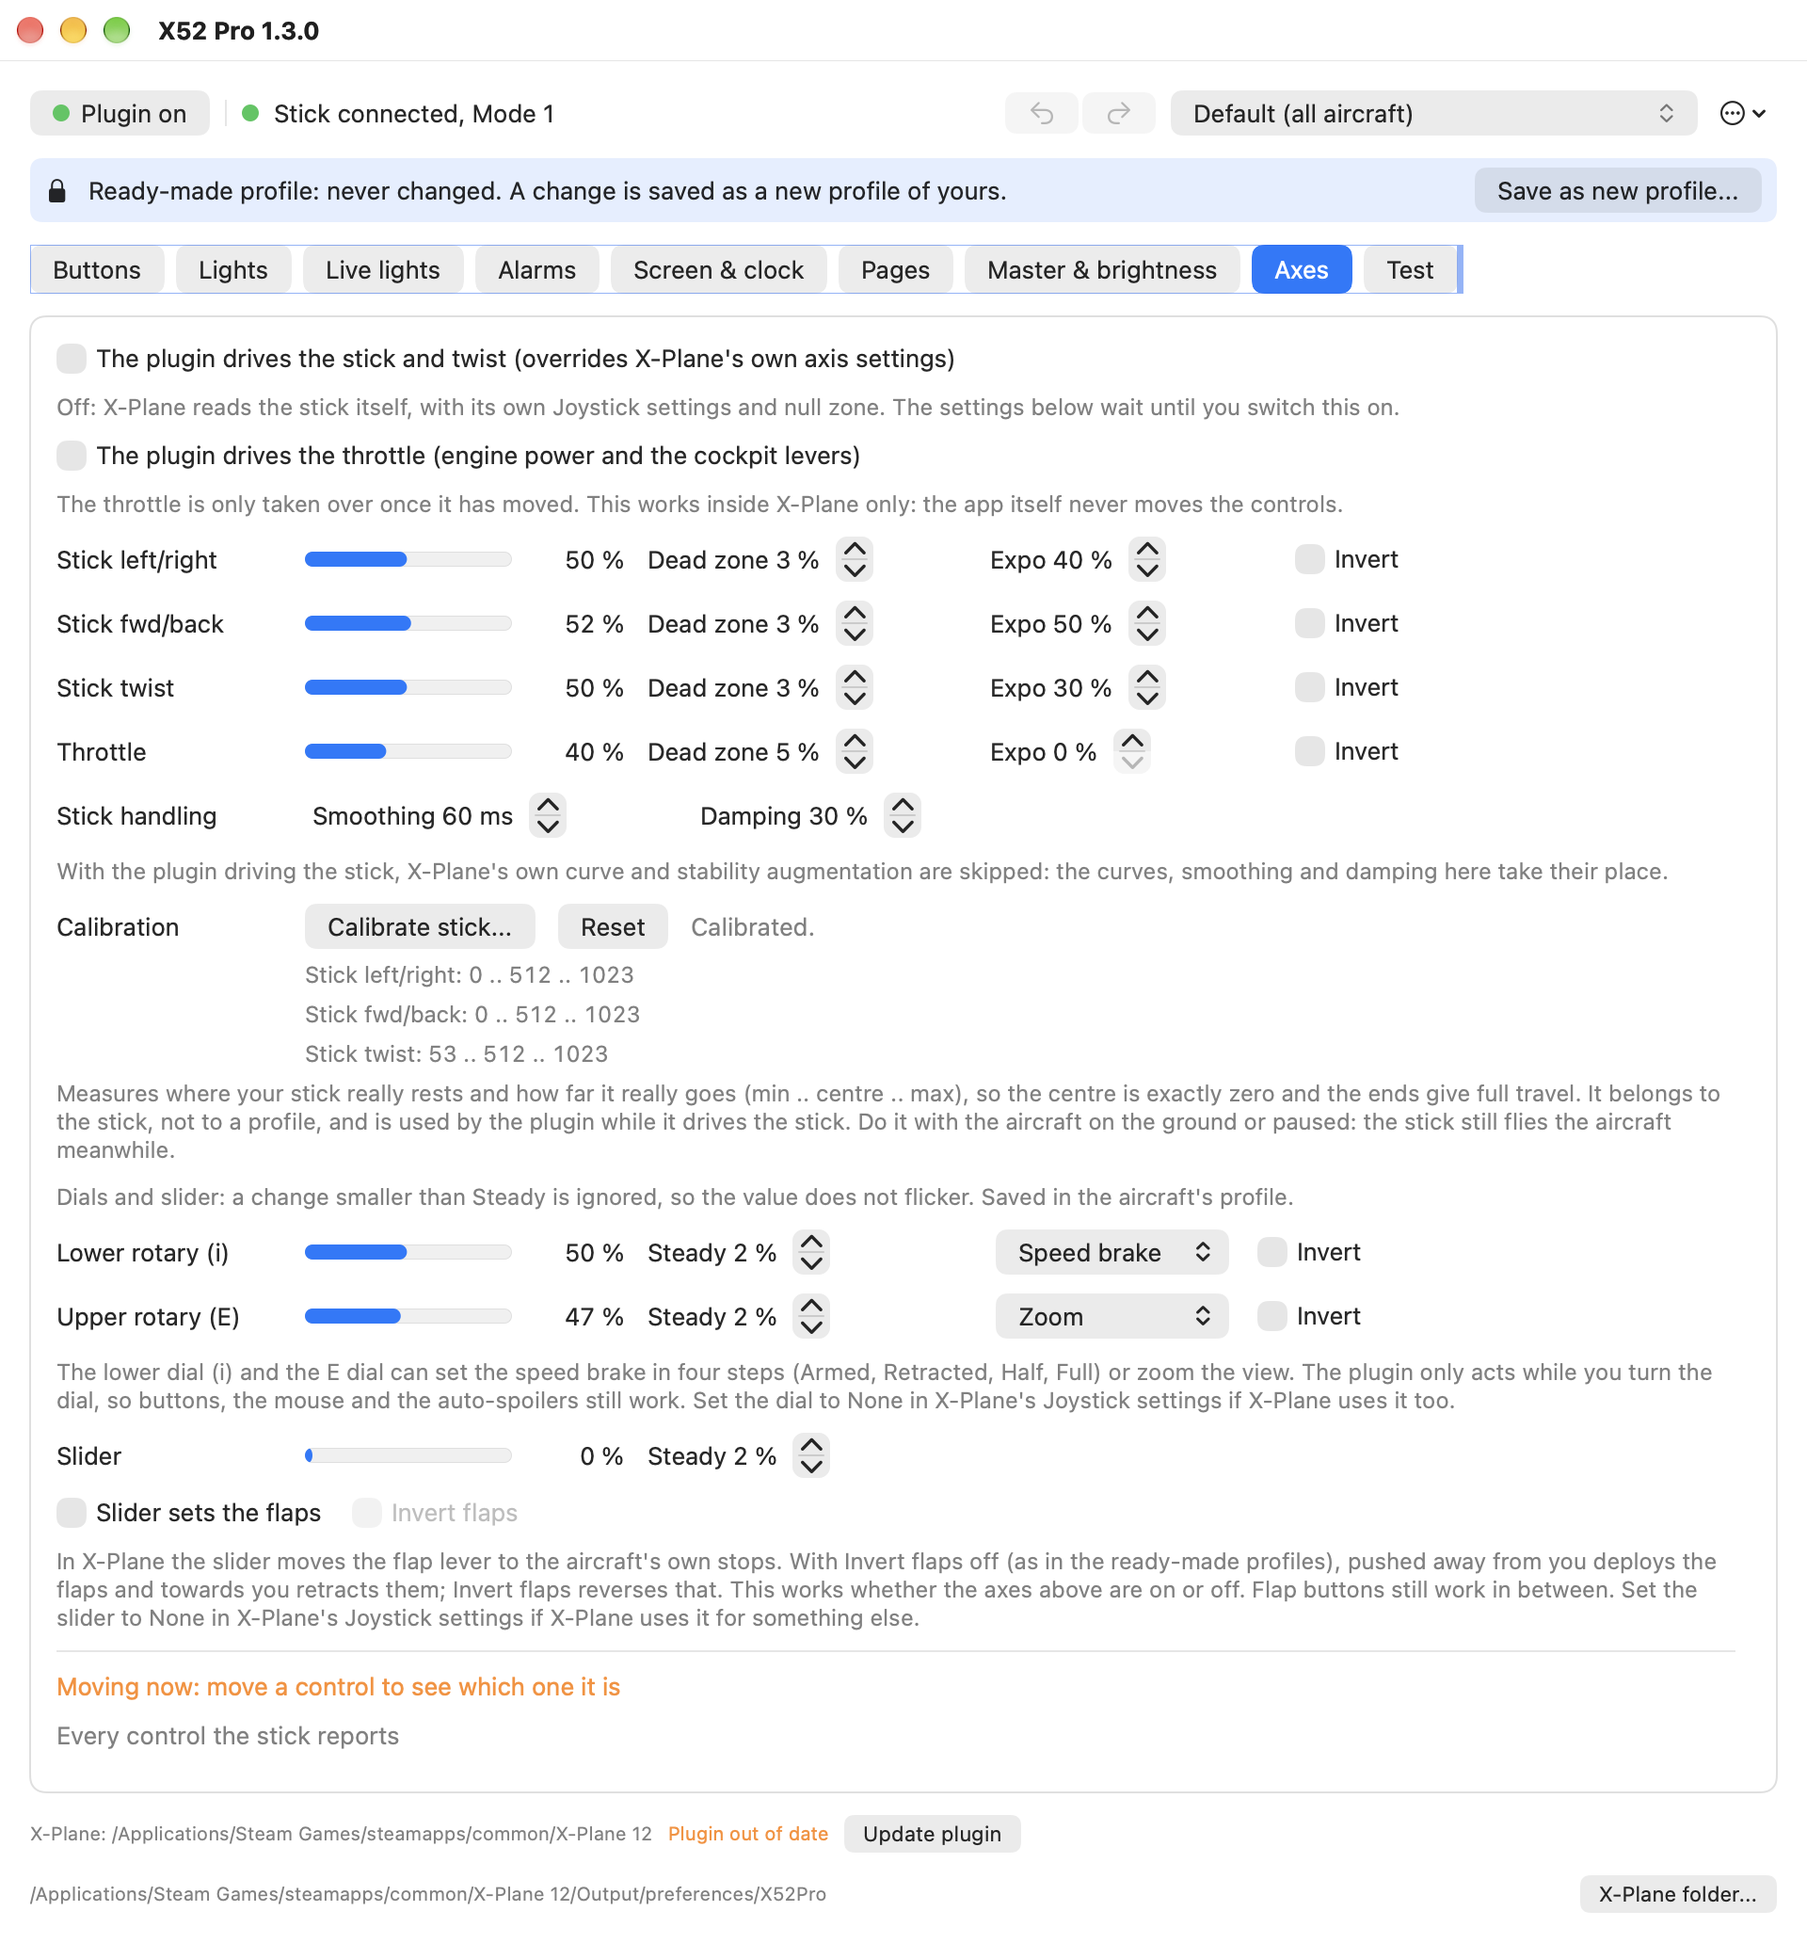
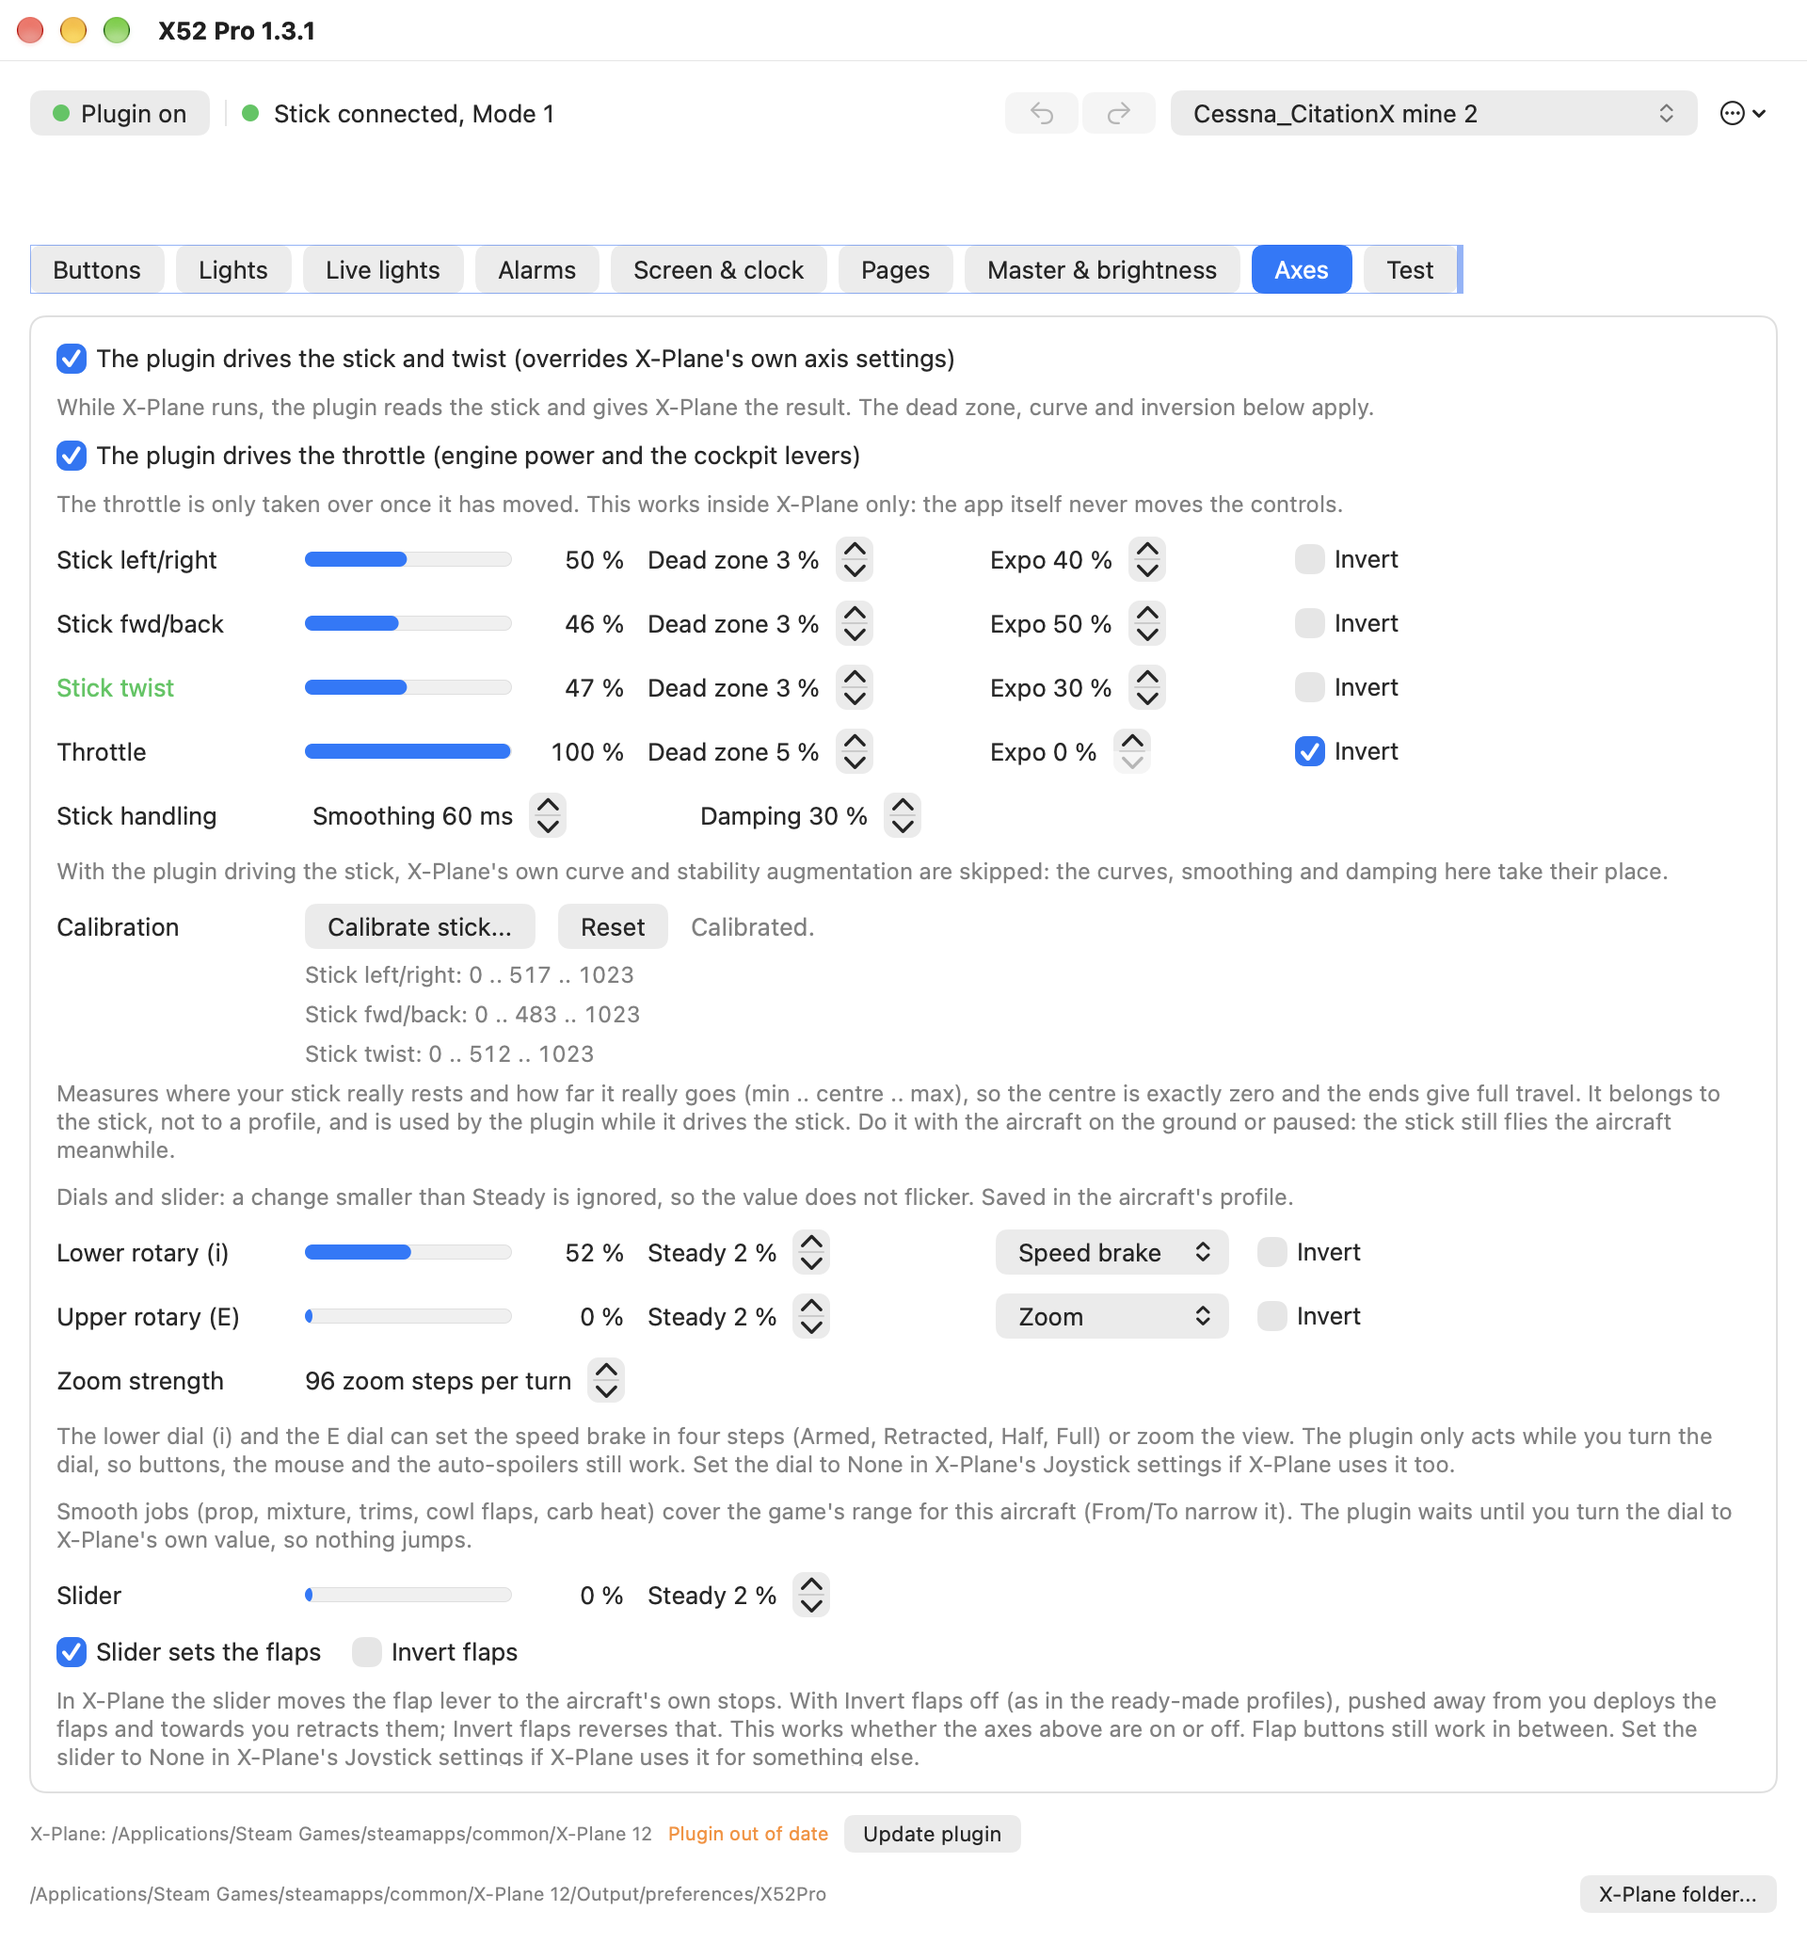
Docs and VERSION 1.3.1 for the dial lever jobs and the panel brightness (#78)

diff --git a/docs/manual/build_manual.js b/docs/manual/build_manual.js
@@ -312,6 +312,7 @@ add(bullet("**Stick handling**: with the plugin driving the stick, X-Plane's own
 add(bullet("**Calibration**: **Calibrate stick...** opens a window that guides you step by step: push the stick to its four edges until each dot turns green, turn the twist both ways (or skip it), let go so the resting point becomes the centre, then check the measured values and press **Save**. The plugin then uses the stick's own centre and ends; the saved values show on the Axes tab (min .. centre .. max). In the X-Plane window it is simpler: **Calibrate stick**, move everything to its limits, let go, **Done**. **Reset** goes back to the stick's full range. The calibration belongs to the stick, not to a profile, and is the same in the app and in the X-Plane window: a calibration made in one is picked up by the other within a second. Do it on the ground or paused, since the stick still flies the aircraft meanwhile."));
 add(bullet("**Dials and slider** (lower and upper rotary, slider): a change smaller than **Steady** is ignored, so the value does not flicker."));
 add(bullet("**What the dials do**: for the lower dial (i, by the clutch) and the E dial pick **Speed brake**, **Zoom** or **Nothing**, and **Invert** to turn it the other way. Speed brake goes in four steps over the dial's turn: Armed, Retracted, Half, Full. Zoom uses X-Plane's own zoom; **Zoom strength** sets how many zoom steps a full turn gives (96 by default, 12 to 480), and you can change it while flying. An aircraft that does not take the armed position (the Citation X) stays retracted in the first step. The plugin acts only while you turn the dial, so speed-brake buttons, the mouse wheel and the auto-spoilers still work. Set the dials to None in X-Plane's Joystick settings; if X-Plane still uses one for speed brakes or zoom, the plugin leaves that job to X-Plane and its window says so."));
+add(bullet("**Smooth levers**: a dial can also be **Prop**, **Mixture**, **Rudder trim**, **Aileron trim**, **Cowl flaps** or **Carb heat**. A full turn covers the game's range for that job, within the aircraft's own trim limits; **From** and **To** (percent) narrow it for finer control. Prop, mixture, cowl flaps and carb heat move every engine together. After loading an aircraft or profile, or when a button, the mouse or the autopilot moved the value, the dial does nothing until you turn it to X-Plane's own value, so nothing ever jumps; the plugin window says where to turn it."));
 add(bullet("**Slider sets the flaps**: in X-Plane the slider moves the flap lever to the aircraft's own stops. Pushed away from you deploys the flaps and towards you retracts them; **Invert flaps** reverses that. This works whether the axes above are on or off, and the flap buttons still work in between. Set the slider to None in X-Plane's Joystick settings if X-Plane uses it for something else."));
 add(h2("4.10  Test"));
 add(...image("app-test.png", "Figure 9. The Test tab."));
@@ -386,7 +387,7 @@ add(bullet("**Fast turns jump.** While changing heading, altitude, vertical spee
 add(bullet("COM fine steps are 25 kHz, or 8.33 kHz channels if you choose that."));
 add(bullet("The **Function**, **Start/Stop** and **Reset** buttons under the screen are the stick's own clock and stopwatch buttons."));
 add(h2("6.2  The Brightness page"));
-add(p("The last page sets the screen's and the lights' brightness from the stick: turn the right wheel to pick Screen or Lights, press to change (`>>`), turn in 5 % steps, press again to finish. It is saved at once. The screen never goes below 10 %. A brightness that follows a dataref shows `dataref` and is not changed here."));
+add(p("The last page sets the screen's and the lights' brightness from the stick: turn the right wheel to pick Screen or Lights, press to change (`>>`), turn in 5 % steps, press again to finish. It is saved at once. The screen never goes below 10 %. A brightness that follows a dataref shows `dataref` and is not changed here. In X-Plane, changing the screen here also dims the aircraft's instrument panel to the same percent, so one control dims both for night flying."));
 add(h2("6.3  The Buttons page"));
 add(p("Shows the name of the profile on the first line, the name of the button you last pressed on the second, and the mode (with \"+ Pinkie\" while the pinkie is held) on the third. It is the default screen, and it is useful for learning a profile."));
 add(h2("6.4  Your own pages"));

diff --git a/src/app/main.swift b/src/app/main.swift
@@ -2072,9 +2072,9 @@ struct AxesTab: View {
                         .help("How far one full turn of a dial set to Zoom zooms the view, in steps of X-Plane's own zoom. More is a stronger zoom. You can change it while flying.")
                 }
             }
-            Text("Smooth jobs (prop, mixture, trims, cowl flaps, carb heat) cover the game's range for this aircraft (From/To narrow it). The plugin waits until you turn the dial to X-Plane's own value, so nothing jumps.")
-                .font(.callout).foregroundStyle(.secondary).fixedSize(horizontal: false, vertical: true)
             Text("The lower dial (i) and the E dial can set the speed brake in four steps (Armed, Retracted, Half, Full) or zoom the view. The plugin only acts while you turn the dial, so buttons, the mouse and the auto-spoilers still work. Set the dial to None in X-Plane's Joystick settings if X-Plane uses it too.")
+                .font(.callout).foregroundStyle(.secondary).fixedSize(horizontal: false, vertical: true)
+            Text("Smooth jobs (prop, mixture, trims, cowl flaps, carb heat) cover the game's range for this aircraft (From/To narrow it). The plugin waits until you turn the dial to X-Plane's own value, so nothing jumps.")
                 .font(.callout).foregroundStyle(.secondary).fixedSize(horizontal: false, vertical: true)
             DialSteadyRow(m: m, title: "Slider", key: "slider", usage: 0x36)
             HStack(spacing: 16) {

diff --git a/README.md b/README.md
@@ -67,7 +67,8 @@ write macros, put radios and autopilot on the throttle's screen, and have the li
 **Flying**
 
 - **Axes** – dead zone, expo curve and inversion for the stick, twist and throttle; the slider as a flap lever; the
-  dials on the throttle as the speed brake (in four steps: Armed, Retracted, Half, Full) or the zoom, chosen per
+  dials on the throttle as the speed brake (in four steps: Armed, Retracted, Half, Full), the zoom, or a smooth
+  lever for prop, mixture, rudder or aileron trim, cowl flaps or carb heat within the game's limits, chosen per
   profile; a view of every control the stick reports.
 - **Plugin on/off** – a switch in the app's status row turns the X-Plane plugin off completely (red light) and back
   on (green light), for when you want X-Plane's own Joystick settings alone.
@@ -357,6 +358,8 @@ Other things to know:
 - The **Brightness page** sets the screen's and the lights' brightness from the stick: turn the right wheel to
   pick Screen or Lights, press to change (`>>`), turn in 5 % steps, press again to finish. It is saved at once.
   The screen never goes below 10 %. A brightness that follows a dataref shows `dataref` and is not changed here.
+  In X-Plane, changing the screen here also dims the aircraft's instrument panel to the same percent, so one
+  control dims both for night flying (the cockpit's own brightness knob still works in between).
 - The **right wheel and its button** change what the page shows, as in the manual:
   turn to move the cursor, press to act. `[118.000]` is an active frequency: press to
   swap it with standby. `>` or `<` marks a part of a value: press (it becomes `>>` or
@@ -373,11 +376,18 @@ Other things to know:
   taken over once it has moved. Test mode on the Settings tab also names moving controls on the stick's screen.
   **The dials:** each profile says what the lower dial (i, by the clutch) and the E dial do: *Speed brake* (four
   steps over the dial's turn: Armed, Retracted, Half, Full), *Zoom* (X-Plane's own zoom commands; *Zoom
-  strength* sets how many zoom steps a full turn gives, 96 by default, 12 to 480) or *Nothing*, each with *Invert*. The plugin reads the dial's steady value, so its one-step flicker
+  strength* sets how many zoom steps a full turn gives, 96 by default, 12 to 480), a smooth lever (*Prop*,
+  *Mixture*, *Rudder trim*, *Aileron trim*, *Cowl flaps*, *Carb heat*) or *Nothing*, each with *Invert*. A lever
+  covers the game's range in one full turn, within the aircraft's own trim limits; *From* and *To* (percent) narrow
+  it for finer control. Prop, mixture, cowl flaps and carb heat move every engine. **Soft takeover:** after loading
+  an aircraft or profile, or when a button, the mouse or the autopilot moved the value, the dial does nothing until
+  you turn it to X-Plane's own value, so nothing jumps; the plugin window says where to turn it. The plugin reads the dial's steady value, so its one-step flicker
   never reaches X-Plane, and acts only while you turn it: speed-brake buttons, the mouse wheel and the auto-spoilers
   still work in between. Set the dials to None in X-Plane's Joystick settings; if X-Plane still uses one for speed
   brakes or zoom, the plugin leaves that job to X-Plane and its window says so. Profile keys `rotary_lower`,
-  `rotary_upper` (0 nothing, 1 speed brake, 2 zoom), `rotary_lower_invert`, `rotary_upper_invert` and `rotary_zoom_steps`.
+  `rotary_upper` (0 nothing, 1 speed brake, 2 zoom, 3 prop, 4 mixture, 5 rudder trim, 6 aileron trim, 7 cowl flaps,
+  8 carb heat), `rotary_lower_invert`, `rotary_upper_invert`, `rotary_zoom_steps` and
+  `rotary_lower_range` / `rotary_upper_range` (`<from> <to>` in percent, `0 100` by default).
   An aircraft that does not take the armed position (the Citation X) stays retracted in the first step.
 - **Plugin on/off:** the button at the left of the status row (green *Plugin on*, red *Plugin off*). Off, the plugin
   does nothing in X-Plane (no buttons, axes, dials, screen or lights) and the status says "Stick connected, plugin

diff --git a/profiles/README.md b/profiles/README.md
@@ -49,7 +49,9 @@ live in the Citation X: X-Plane saw the stick and throttle move, but the yoke an
 - The slider is the flaps (above). If X-Plane also uses the slider for something, set it to None in X-Plane's
   Joystick settings. **The dials:** the lower dial (i, by the clutch) is the speed brake in four steps (Armed,
   Retracted, Half, Full) in the aircraft that have one (Citation X, 737, A330, MD-82, F-4, F-14; `rotary_lower = 1`),
-  nothing elsewhere; the E dial zooms the view everywhere (`rotary_upper = 2`, `rotary_zoom_steps = 96`: zoom steps per full turn). Set both dials to None in X-Plane's
+  nothing elsewhere; the E dial zooms the view everywhere (`rotary_upper = 2`, `rotary_zoom_steps = 96`: zoom steps per full turn). Either dial can instead be a smooth lever
+  (prop, mixture, trims, cowl flaps, carb heat: `rotary_<lower|upper>` 3 to 8) over the part of the game's range set
+  by `rotary_<lower|upper>_range = 0 100`. Set both dials to None in X-Plane's
   Joystick settings. **POV 1** (the main hat on top of the stick) looks around in every mode (buttons 40 to 43, X-Plane's rotate-view commands: the same as the Q, E, R and F keys); set that hat to None in X-Plane's Joystick settings, and hold the clutch to use it as the profile picker instead. The **mouse nub** on the throttle pans the view in every mode (X-Plane's pan commands, the same as the arrow keys; pushed all the way, the fast pan, the same as Shift + arrow keys; buttons 44 to 51).
 
 All of it can be changed per profile on the app's Axes tab (dead zone, expo, invert, Invert flaps, what each dial does).

diff --git a/CHANGELOG.md b/CHANGELOG.md
@@ -1,5 +1,22 @@
 # Changelog
 
+## 1.3.1
+
+### Added
+- **More jobs for the throttle's dials: smooth levers within the game's limits.** Besides Speed brake, Zoom and
+  Nothing, the lower dial (i) and the E dial can each be *Prop*, *Mixture*, *Rudder trim*, *Aileron trim*, *Cowl
+  flaps* or *Carb heat*. A full turn covers the game's range for the job, within the aircraft's own rudder and
+  aileron trim limits; prop, mixture, cowl flaps and carb heat move every engine together. *From* and *To* (percent)
+  narrow the range a full turn covers, for finer control. **Soft takeover:** after loading an aircraft or profile, or
+  when a button, the mouse or the autopilot moved the value, the dial does nothing until it is turned to X-Plane's
+  own value, so nothing jumps; the plugin window says where to turn it. Pick the jobs and ranges on the app's Axes
+  tab or in the plugin window. New profile keys `rotary_lower_range` and `rotary_upper_range` (`0 100` by default),
+  jobs 3 to 8 for `rotary_lower` / `rotary_upper`; profile format 8. The ready-made profiles keep speed brake and
+  zoom. (issue #78)
+- **The stick's screen brightness dims the aircraft's panel too.** Changing *Screen* on the stick's Brightness page
+  now also sets X-Plane's instrument panel brightness to the same percent, so one control dims both for night
+  flying. Only that page does it, so the cockpit's own brightness knob still works in between. (issue #78)
+
 ## 1.3.0
 
 ### Added
